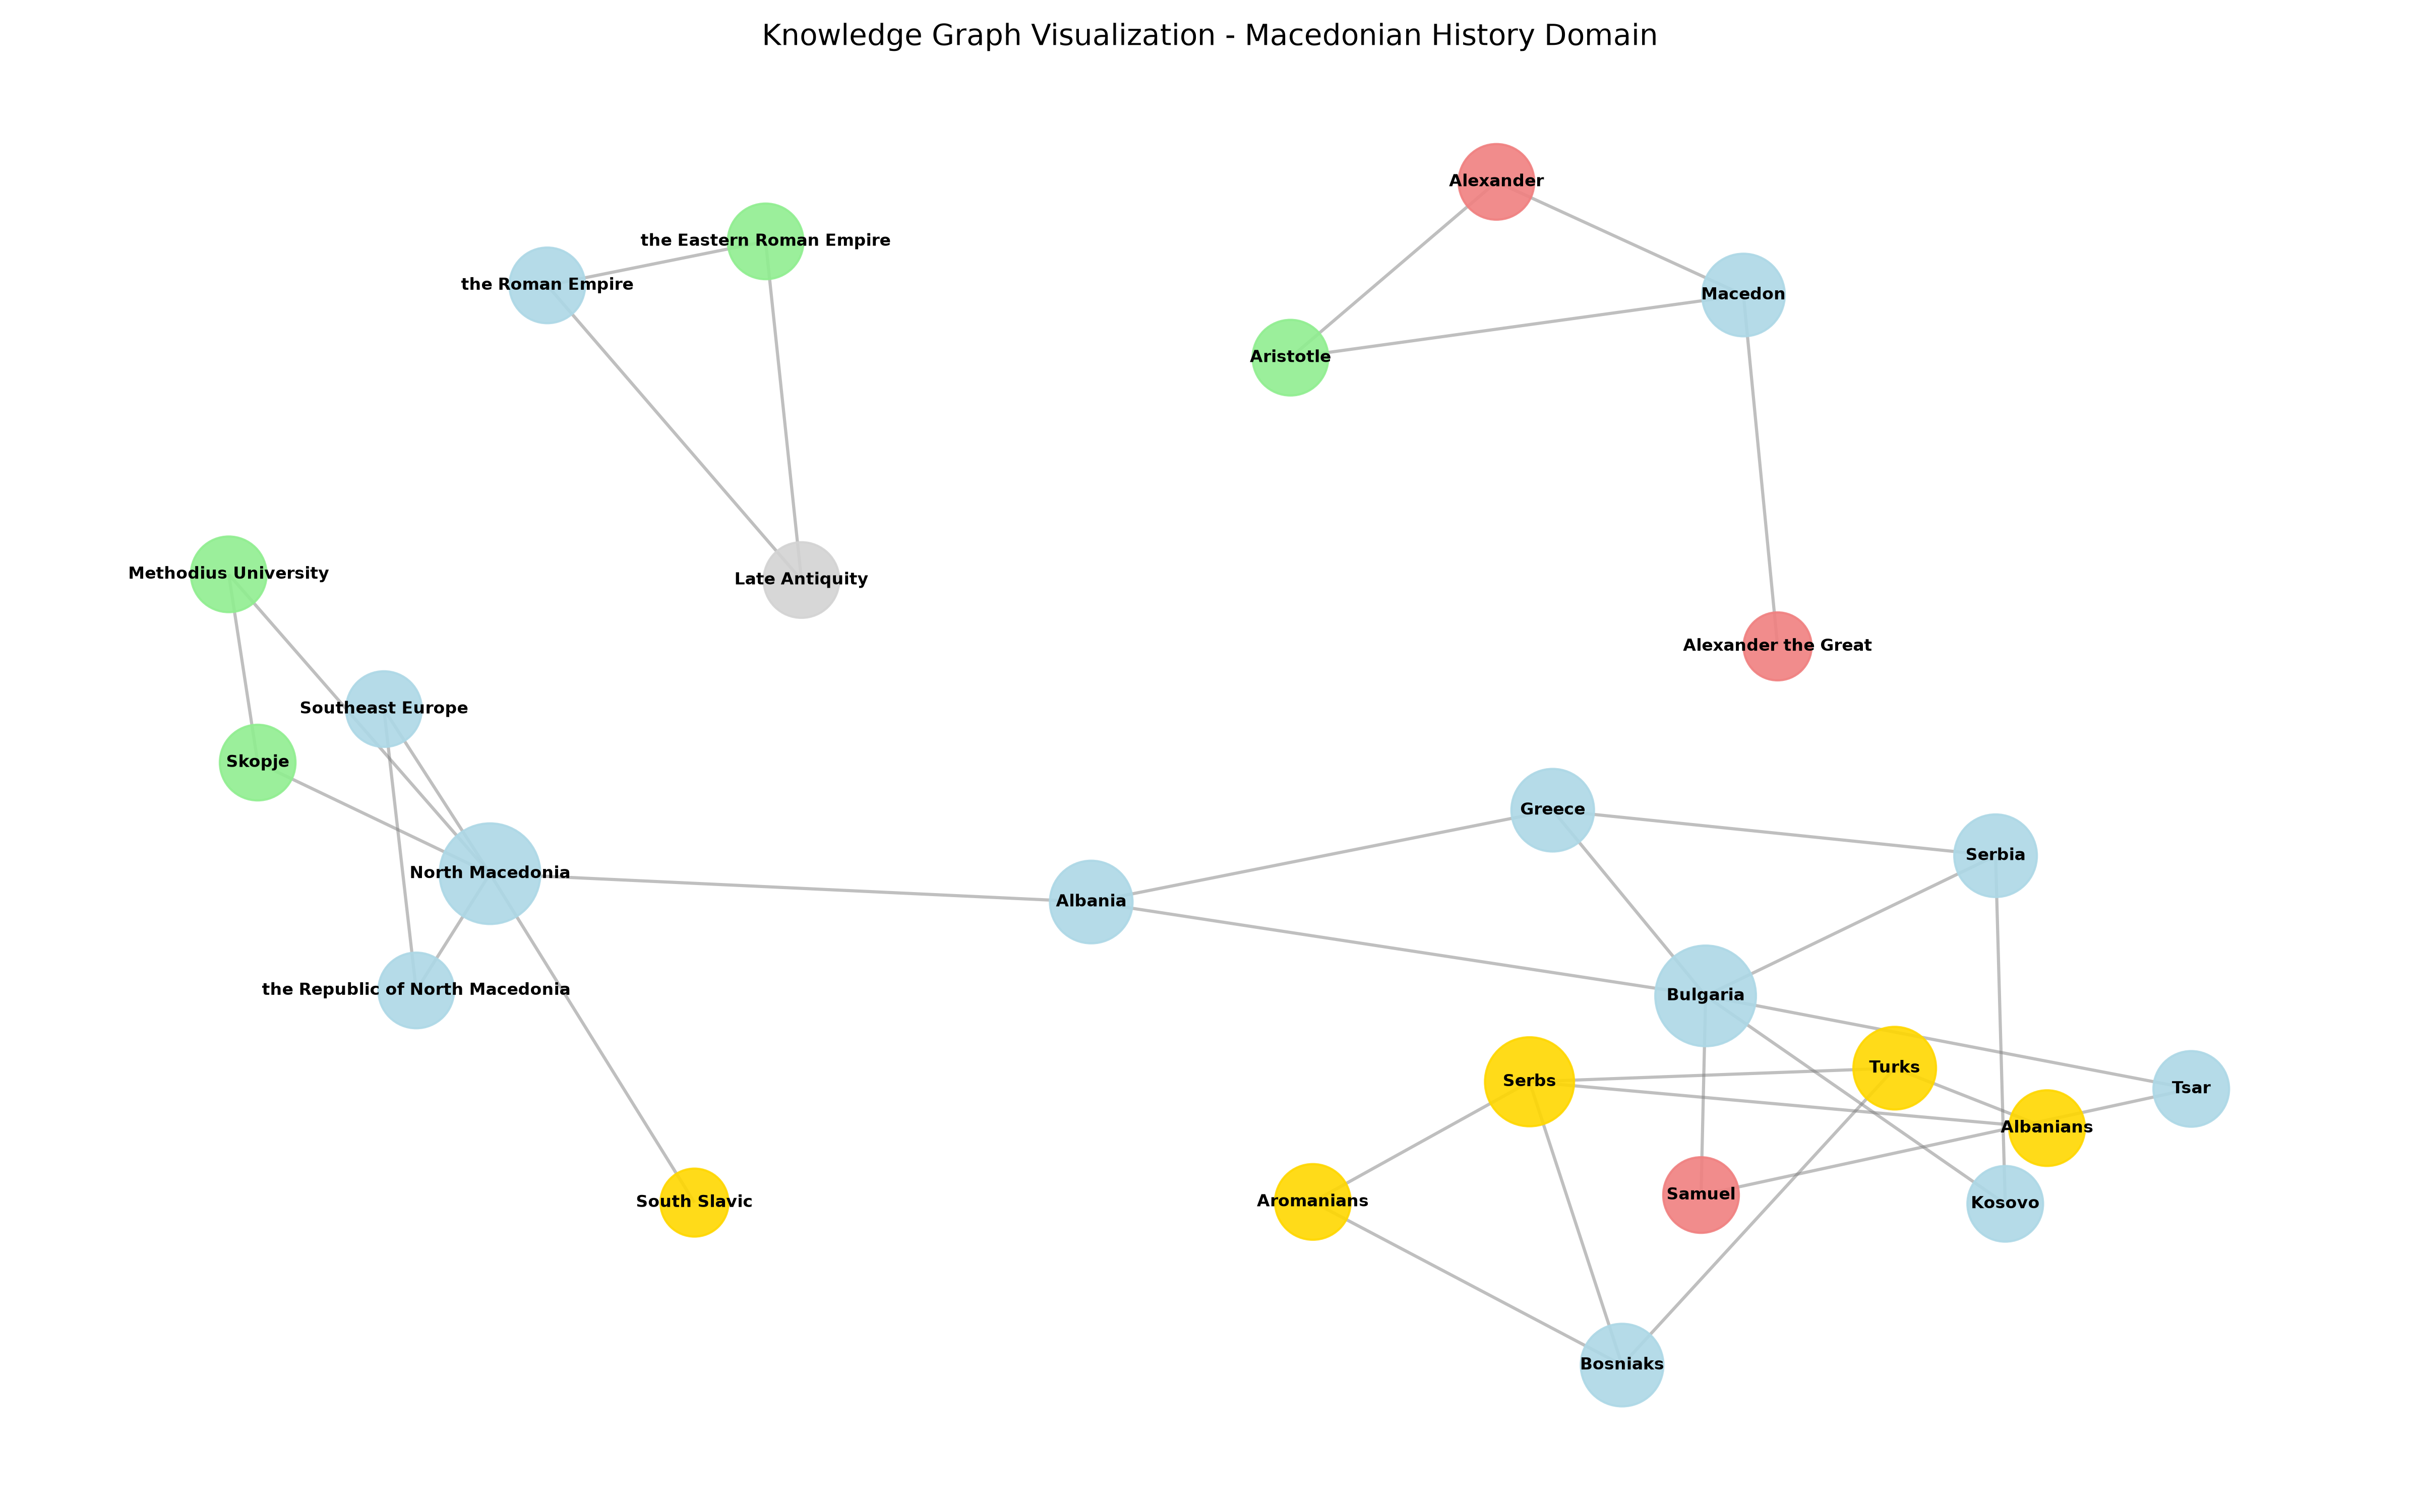
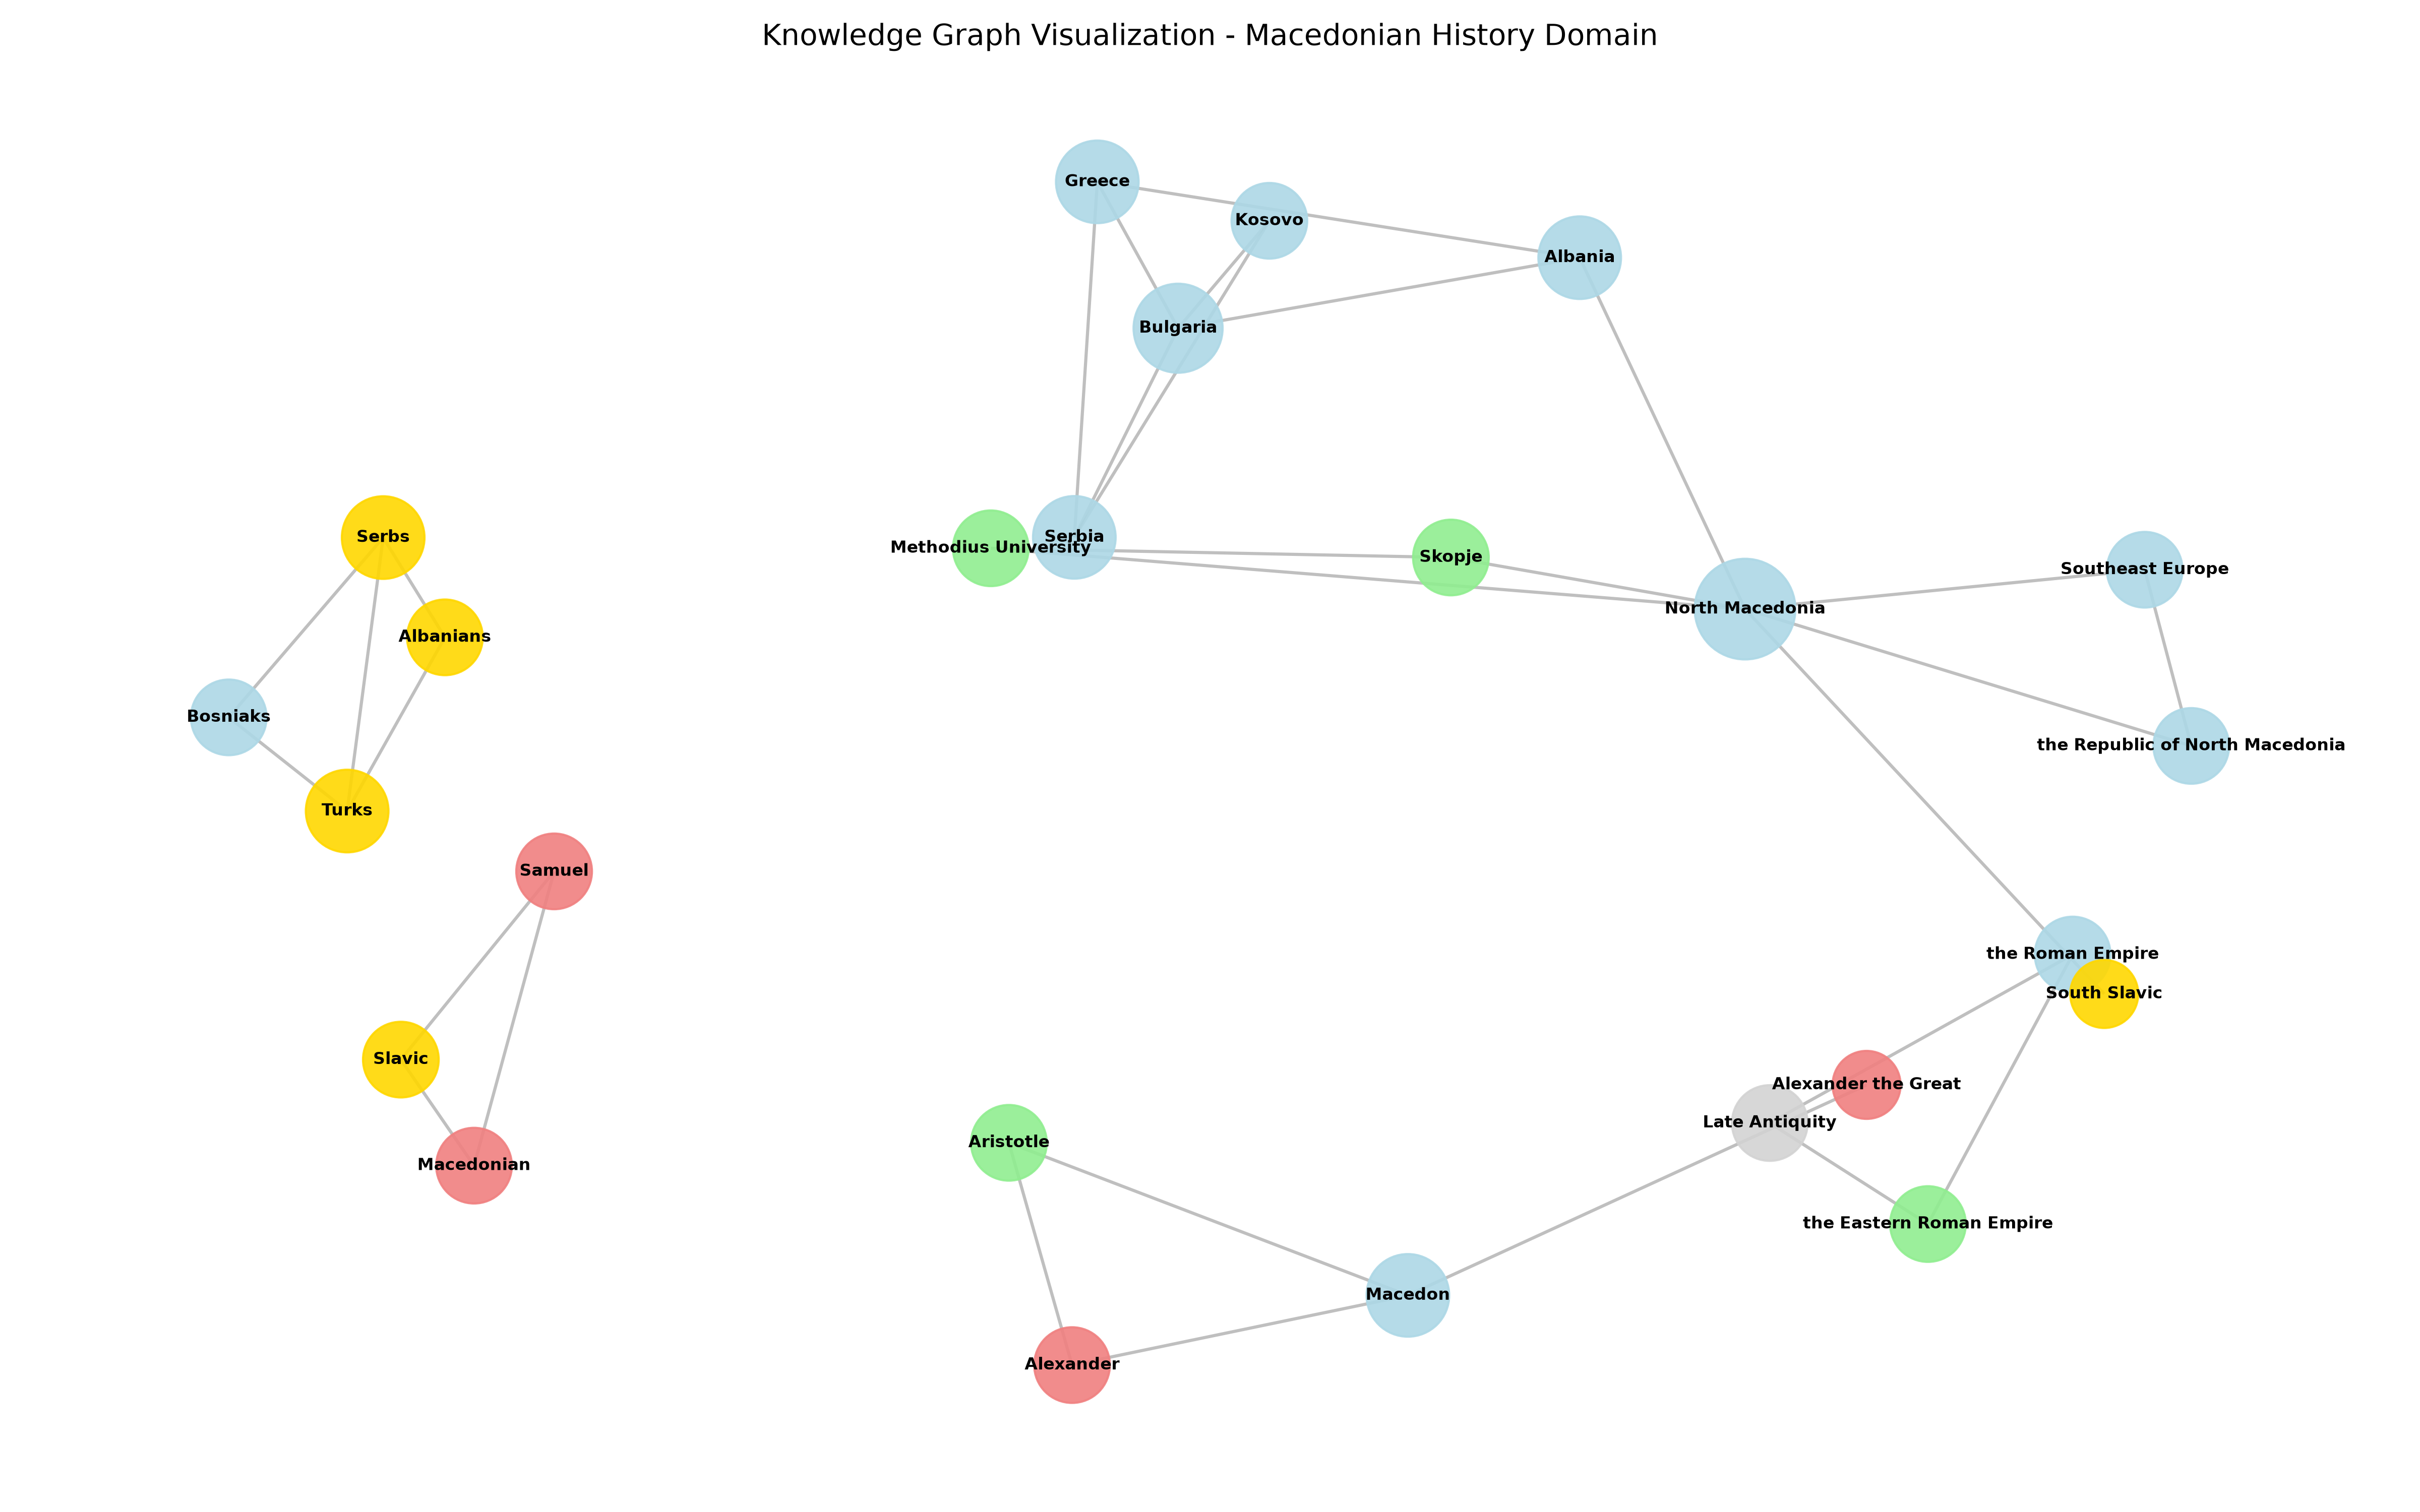
Updated Macedonian history facts

diff --git a/README.md b/README.md
@@ -1,35 +1,39 @@
 # KG-RAG for Macedonian History
 
-A simple Knowledge Graph–Enriched Question Answering project for the course **Intelligent Information Systems**.
+A simple **Knowledge Graph–Enriched Question Answering** project developed for the course **Intelligent Information Systems**.
 
-This project builds a **Knowledge Graph (KG)** from a small corpus of Wikipedia texts related to **Macedonian history**, then uses the graph to improve question answering through **KG-based retrieval**.
+This project builds a small **Knowledge Graph (KG)** from Wikipedia-based texts related to **Macedonian history and geography**, then uses graph-based retrieval to improve question answering over the corpus.
 
 ## Project idea
 
-Large Language Models often answer questions using only parametric knowledge, which can lead to incomplete or hallucinated answers. This project demonstrates a simpler alternative:
+Large Language Models can produce incomplete or hallucinated answers when they rely only on internal parametric knowledge. This project demonstrates a simpler and more controlled alternative:
 
-- build a small domain-specific Knowledge Graph,
-- retrieve relevant entities and subgraphs,
-- use them to enrich question answering.
+- Build a small domain-specific Knowledge Graph
+- Retrieve relevant entities and subgraphs
+- Use them to improve question answering
+- Compare the result with a text-only baseline
+
+## Domain
 
 The selected domain is **Macedonian history and geography**, including topics such as:
-- North Macedonia
+
+- Republic of North Macedonia
 - Alexander the Great
 - Skopje
 - Ohrid
+- Macedonian language
 - Cyril and Methodius
-- Samuel of Bulgaria
+- Samuel and the Macedonian medieval context
 - Byzantine Empire
 
 ## Features
 
 - Named Entity Recognition with **spaCy**
 - Knowledge Graph construction with **NetworkX**
-- Community-aware graph structure
-- KG-based retrieval for question answering
-- Baseline vs KG-RAG comparison
-- Graph visualization
-- Evaluation in CSV and chart form
+- Query-based node retrieval
+- KG-RAG vs baseline comparison
+- Graph visualization in PNG and GEXF format
+- Evaluation output in CSV and chart form
 
 ## Project structure
 
@@ -66,7 +70,7 @@ IIS_KG/
 
 ## Installation
 
-Clone the repository and install dependencies:
+Clone the repository and install the required dependencies:
 
 ```bash
 pip install -r requirements.txt
@@ -82,10 +86,11 @@ python main.py
 ```
 
 This will:
-- build the Knowledge Graph,
-- answer predefined questions,
-- compare KG-RAG with a baseline approach,
-- save the graph to `output/knowledge_graph.gexf`.
+
+- Build the Knowledge Graph
+- Answer predefined questions
+- Compare **KG-RAG** with a baseline method
+- Save the graph to `output/knowledge_graph.gexf`
 
 ## Run evaluation
 
@@ -99,7 +104,7 @@ This creates:
 
 ## Generate visualizations
 
-### Graph visualization
+### Knowledge Graph visualization
 
 ```bash
 python visualize_graph.py
@@ -129,16 +134,30 @@ The system currently tests the following questions:
 - What happened at the Battle of Kleidion?
 - What is the UNESCO World Heritage Site near Ohrid?
 
-## Example output
+## Methodology
 
-Example console output:
+1. A small corpus is prepared from Wikipedia summaries.
+2. **spaCy** extracts named entities such as people, places, organizations, and nationalities.
+3. A **Knowledge Graph** is built where:
+   - nodes represent entities
+   - edges represent co-occurrence relations inside sentences
+4. For each query, the system retrieves relevant nodes from the graph.
+5. **KG-RAG** ranks supporting sentences using:
+   - keyword overlap
+   - graph entity matches
+6. A baseline method ranks sentences using only keyword overlap.
 
-```text
-KG-RAG Question Answering Demo
-Graph loaded: 62 nodes, 66 edges
-```
+## Results
 
-Example evaluation result:
+The project generates:
+
+- A domain-specific Knowledge Graph
+- A `.gexf` graph file for further inspection
+- A `.png` graph visualization
+- A CSV file with evaluation metrics
+- A bar chart for entity coverage across questions
+
+Example evaluation results:
 
 - Alexander birth: 87.5% entity coverage
 - North Macedonia language: 62.5%
@@ -146,30 +165,21 @@ Example evaluation result:
 - Battle of Kleidion: 62.5%
 - UNESCO near Ohrid: 75.0%
 
-## Methodology
+## Notes on the Samuel update
 
-1. A small corpus is prepared from Wikipedia summaries.
-2. spaCy extracts named entities such as people, places, organizations, and nationalities.
-3. A Knowledge Graph is built where:
-   - nodes = entities
-   - edges = co-occurrence relations inside sentences
-4. For each query, the system retrieves relevant nodes from the graph.
-5. KG-RAG ranks answer sentences using both:
-   - keyword overlap
-   - graph entity matches
-6. A baseline method ranks sentences using only keyword overlap.
+The corpus was refined to better reflect **Samuel in a Macedonian medieval context**, instead of keeping an overly direct connection to Bulgaria in the graph. This improved the thematic structure of the Knowledge Graph and produced a clearer historical cluster around **Samuel**, **Macedonian**, and **Slavic** entities.
 
 ## Limitations
 
-- The corpus is small.
-- Relations are based on co-occurrence, not typed semantic relations.
-- The system is extractive rather than fully generative.
-- Some questions about specific events may still retrieve noisy context.
+- The corpus is relatively small
+- Relations are based on **co-occurrence**, not typed semantic relations
+- The system is **extractive**, not fully generative
+- Some event-specific questions may still retrieve noisy context
 
 ## Possible improvements
 
 - Use a larger corpus
-- Add relation extraction (`born_in`, `located_in`, `fought_at`, etc.)
+- Add typed relation extraction such as `born_in`, `located_in`, or `fought_at`
 - Integrate a local LLM for better answer generation
 - Support Macedonian-language texts directly
 - Add an interactive web interface
@@ -180,10 +190,10 @@ This project was developed for the course **Intelligent Information Systems** un
 
 **“Enriching LLM knowledge with Knowledge Graphs in a selected application domain.”**
 
-## Author notes
+## Author note
 
 This repository contains a simplified educational implementation designed to clearly demonstrate the core idea of **Knowledge Graph–Enhanced Retrieval-Augmented Question Answering**.
 
 ## License
 
-This project is for educational use.
+This project is intended for educational use.